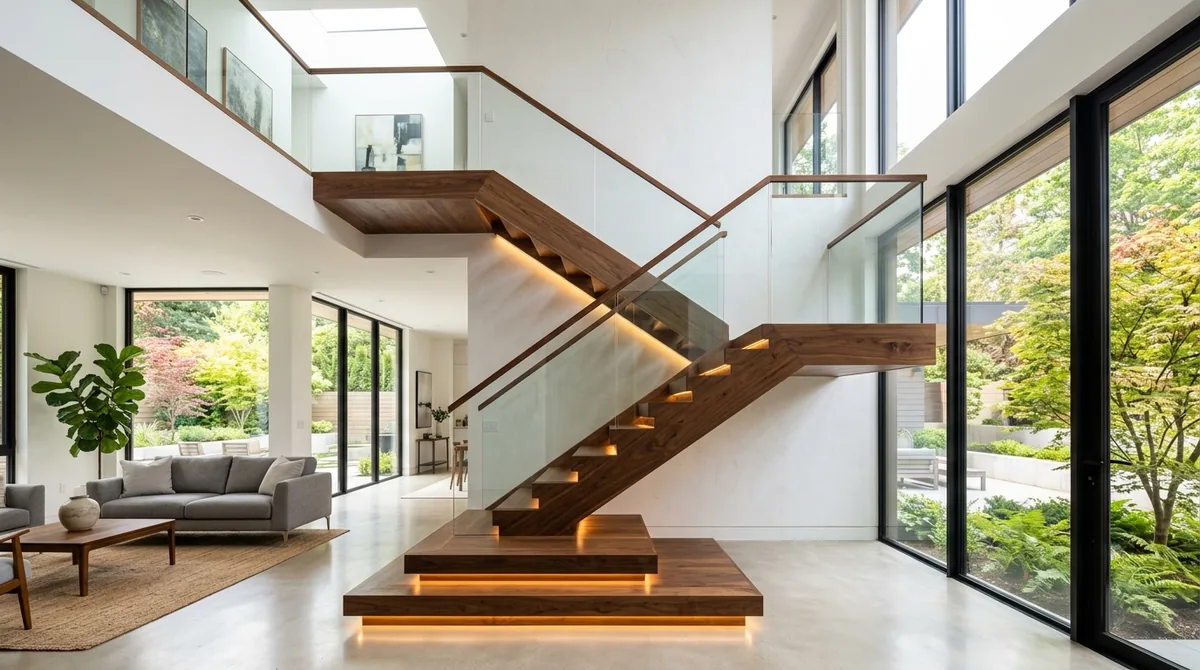
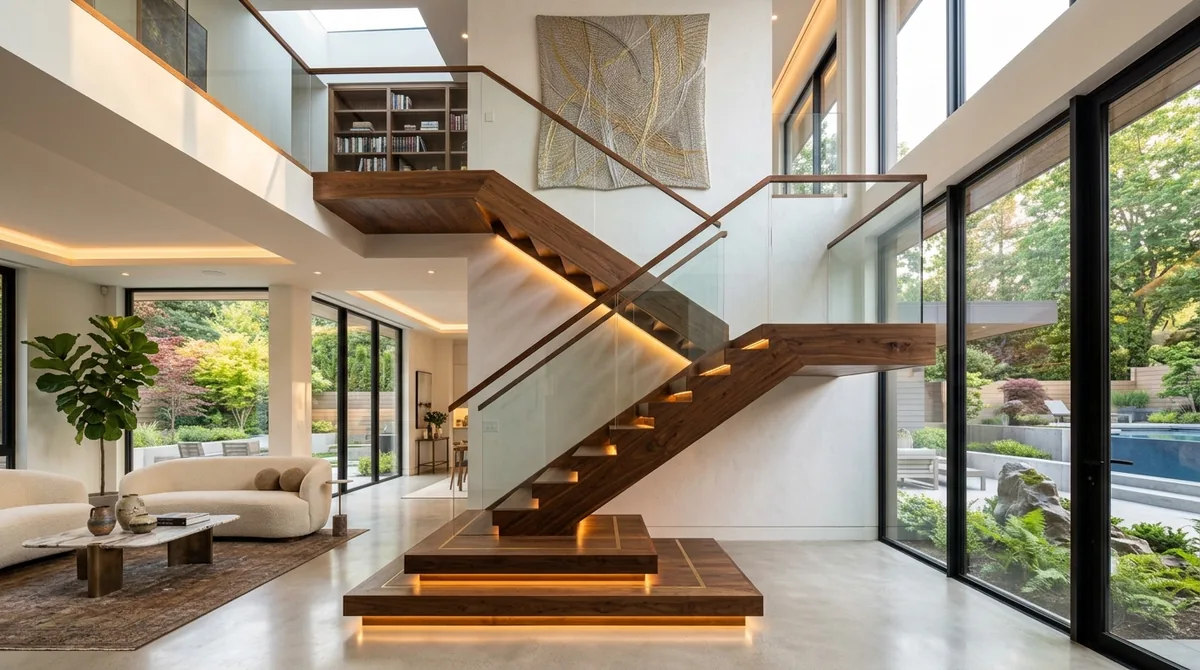
Hero 'Foto hal': nieuwe, warmere versie van de foto (watermerk verwijderd)

diff --git a/index.html b/index.html
@@ -91,7 +91,7 @@
 	<img class="hero__img hero__img--latten" src="img/hero.jpg" alt="Houten trap achter latten met geïntegreerde ledleuning" loading="lazy">
 	<picture class="hero__pic--hal">
 		<source type="image/webp" srcset="img/hero-hal-1200.webp 1200w, img/hero-hal-2400.webp 2400w" sizes="100vw">
-		<img class="hero__img hero__img--hal" src="img/hero-hal-2400.jpg" srcset="img/hero-hal-1200.jpg 1200w, img/hero-hal-2400.jpg 2400w" sizes="100vw" width="2400" height="1340" alt="Notelaren trap met glazen balustrade en ledverlichting in een hoge, lichte hal met zicht op de tuin" fetchpriority="high">
+		<img class="hero__img hero__img--hal" src="img/hero-hal-2400.jpg" srcset="img/hero-hal-1200.jpg 1200w, img/hero-hal-2400.jpg 2400w" sizes="100vw" width="2400" height="1340" alt="Notelaren trap met glazen balustrade en ledverlichting in een hoge, warm verlichte hal met zicht op de tuin" fetchpriority="high">
 	</picture>
 	<picture class="hero__pic--zon">
 		<source type="image/webp" srcset="img/hero-zon-1200.webp 1200w, img/hero-zon-2400.webp 2400w" sizes="100vw">
